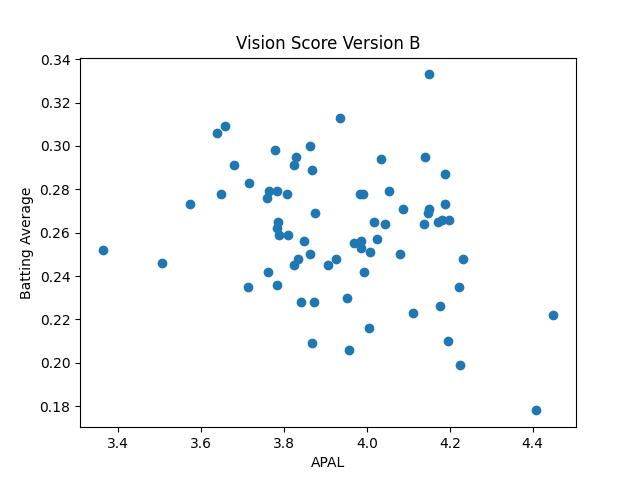
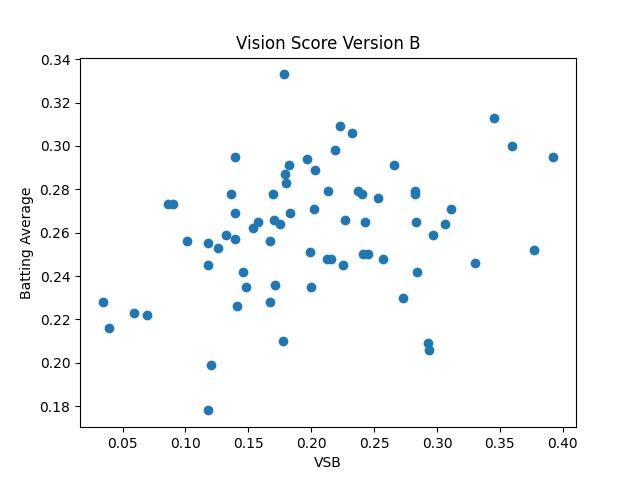
update graphs with vsb

diff --git a/vision_analysis.py b/vision_analysis.py
@@ -3,9 +3,12 @@ import matplotlib.pyplot as plt
 
 def analysis():
     data = pd.read_csv("data/overall.csv")
-
+    low = data.loc[(data["ba"] < 0.243) | (data["vsb"] < 0.125)]
+    print(low)
+    
     ba_y = data["ba"].values
     vsa_x = data["vsa"].values
+    vsb_x = data["vsb"].values
     apal_x = data["apal"].values
 
     plt.scatter(vsa_x, ba_y)
@@ -15,11 +18,18 @@ def analysis():
     plt.savefig("graphs/vsa_analysis.jpeg")
     plt.close()
 
-    plt.scatter(apal_x, ba_y)
+    plt.scatter(vsb_x, ba_y)
     plt.title("Vision Score Version B")
     plt.ylabel("Batting Average")
-    plt.xlabel("APAL")
+    plt.xlabel("VSB")
     plt.savefig("graphs/vsb_analysis.jpeg")
+    plt.close()
+
+    plt.scatter(apal_x, ba_y)
+    plt.title("APAL")
+    plt.ylabel("Batting Average")
+    plt.xlabel("APAL")
+    plt.savefig("graphs/apal_analysis.jpeg")
     plt.close()
 
     data_good_ba = data.loc[data["ba"] > 0.243]
@@ -34,10 +44,27 @@ def analysis():
     plt.scatter(x_good, y_good, color="blue", label="Above League Avg BA")
     plt.scatter(x_bad, y_bad, color="red", label="Below League Avg BA")
     plt.legend()
-    plt.title("Vision Score vs APAL")
+    plt.title("Vision Score A vs APAL")
     plt.ylabel("APAL")
-    plt.xlabel("Vision Score")
-    plt.savefig("graphs/vs_apal.jpeg")
+    plt.xlabel("Vision Score A")
+    plt.savefig("graphs/vsa_apal.jpeg")
+    plt.close()
+
+    x_good = data_good_ba["vsb"].values
+    y_good = data_good_ba["apal"].values
+
+    x_bad = data_bad_ba["vsb"].values
+    y_bad = data_bad_ba["apal"].values
+
+    plt.scatter(x_good, y_good, color="blue", label="Above League Avg BA")
+    plt.scatter(x_bad, y_bad, color="red", label="Below League Avg BA")
+    plt.legend()
+    plt.title("Vision Score B vs APAL")
+    plt.ylabel("APAL")
+    plt.xlabel("Vision Score B")
+    plt.savefig("graphs/vsb_apal.jpeg")
     plt.close()
     
     return
+
+analysis()
